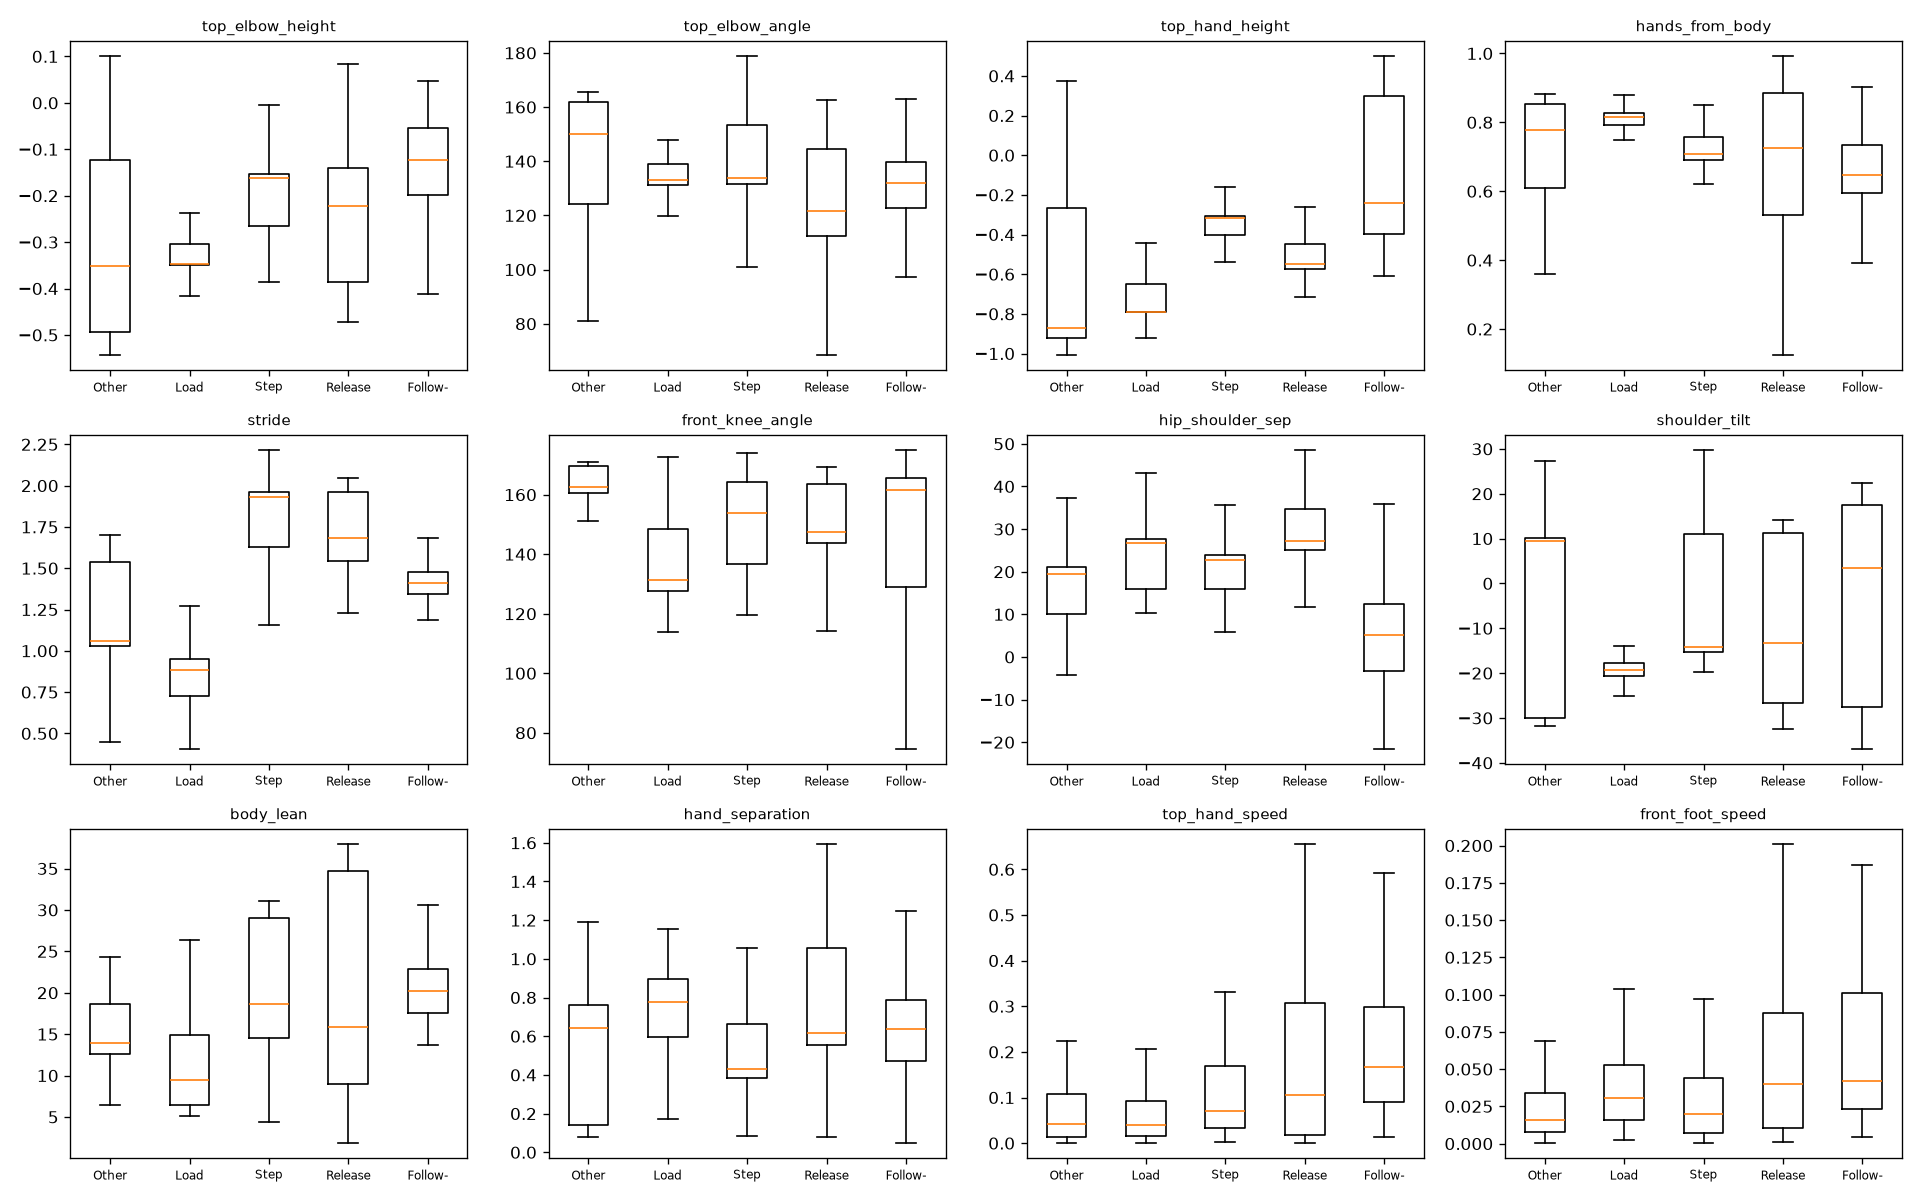
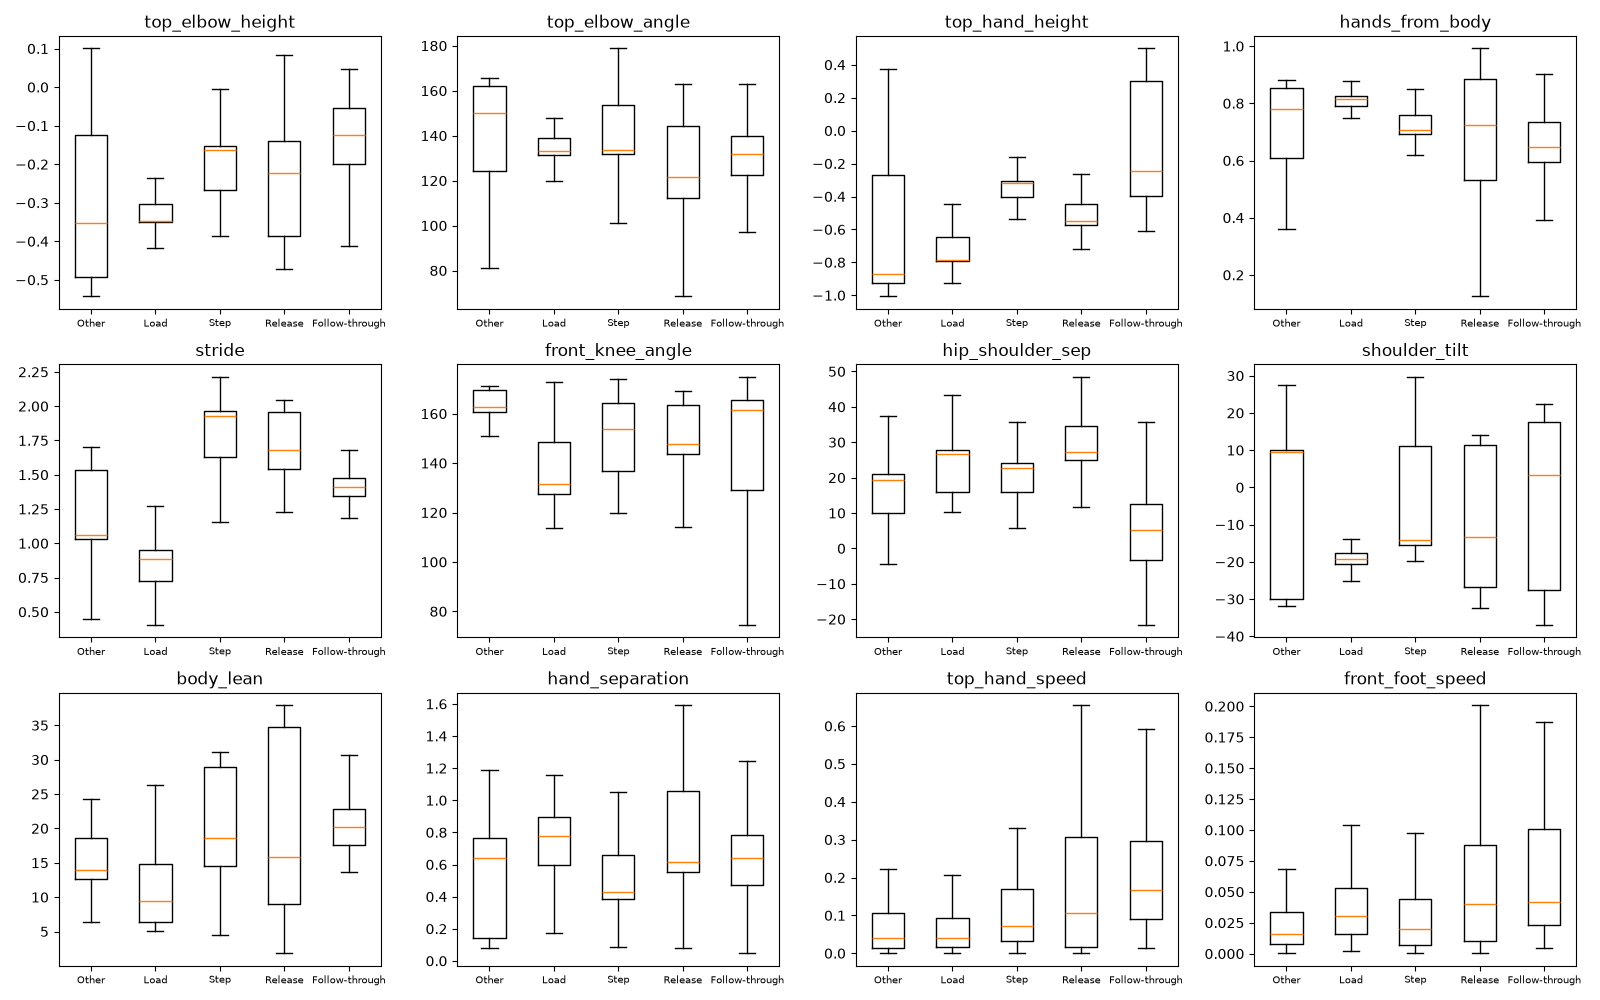
added and trained two traditional models

diff --git a/code/eda.py b/code/eda.py
@@ -1,7 +1,5 @@
 import csv
 
-import matplotlib
-matplotlib.use("Agg")  # save images, don't open windows
 import matplotlib.pyplot as plt
 import numpy as np
 
@@ -10,70 +8,68 @@ from label import LABELS_DIR, STAGES
 from preprocess import MANIFEST, PROCESSED_DIR, ROOT
 
 OUT_DIR = ROOT / "resources" / "eda"
-COLORS = {"Other": "lightgray", "Load": "tab:blue", "Step": "tab:orange",
-          "Release": "tab:red", "Follow-through": "tab:green"}
-# a few features worth watching over time, one per row of the timeline plot
+COLORS = {"Other": "gray", "Load": "blue", "Step": "orange", "Release": "red", "Follow-through": "green"}
 TIMELINE_FEATURES = ["top_hand_height", "stride", "top_hand_speed", "front_foot_speed"]
 
 
 def load_shot(shot_id):
     features = np.load(PROCESSED_DIR / f"{shot_id}_features.npz")["features"]
-    stages = [row["stage"] for row in csv.DictReader(open(LABELS_DIR / f"{shot_id}.csv"))]
+    stages = []
+    for row in csv.DictReader(open(LABELS_DIR / f"{shot_id}.csv")):
+        stages.append(row["stage"])
     return features, np.array(stages)
 
 
-def print_stage_counts(shots):
-    print(f"{'shot':<16}" + "".join(f"{s:>16}" for s in STAGES) + f"{'total':>8}")
-    totals = {s: 0 for s in STAGES}
-    for shot_id, (_, stages) in shots.items():
-        counts = {s: int((stages == s).sum()) for s in STAGES}
-        for s in STAGES:
-            totals[s] += counts[s]
-        print(f"{shot_id:<16}" + "".join(f"{counts[s]:>16}" for s in STAGES) + f"{len(stages):>8}")
-    all_frames = sum(totals.values())
-    print(f"{'all':<16}" + "".join(f"{totals[s]:>11} ({100 * totals[s] / all_frames:2.0f}%)" for s in STAGES)
-          + f"{all_frames:>8}")
+def print_stage_counts(all_stages):
+    print("frames per stage:")
+    for stage in STAGES:
+        count = np.sum(all_stages == stage)
+        print(f"  {stage}: {count} ({100 * count / len(all_stages):.0f}%)")
 
 
 def plot_timeline(shot_id, features, stages):
-    # each feature over the shot, background shaded by the labeled stage
+    frames = np.arange(len(stages))
     fig, axes = plt.subplots(len(TIMELINE_FEATURES), 1, figsize=(10, 8), sharex=True)
     for ax, name in zip(axes, TIMELINE_FEATURES):
-        ax.plot(features[:, FEATURE_NAMES.index(name)], color="black", linewidth=1)
-        for i, stage in enumerate(stages):
-            ax.axvspan(i - 0.5, i + 0.5, color=COLORS[stage], alpha=0.3, linewidth=0)
-        ax.set_ylabel(name, fontsize=8)
+        values = features[:, FEATURE_NAMES.index(name)]
+        ax.plot(frames, values, color="black", linewidth=0.5)
+        for stage in STAGES:
+            ax.scatter(frames[stages == stage], values[stages == stage], color=COLORS[stage], s=5, label=stage)
+        ax.set_ylabel(name)
+    axes[0].legend()
+    axes[0].set_title(shot_id)
     axes[-1].set_xlabel("frame")
-    handles = [plt.Rectangle((0, 0), 1, 1, color=COLORS[s], alpha=0.3) for s in STAGES]
-    fig.legend(handles, STAGES, loc="upper center", ncol=len(STAGES))
-    fig.suptitle(shot_id, y=0.94)
-    fig.savefig(OUT_DIR / f"timeline_{shot_id}.png", dpi=120)
-    plt.close(fig)
+    plt.savefig(OUT_DIR / f"timeline_{shot_id}.png")
+    plt.close()
 
 
-def plot_feature_by_stage(shots):
-    # one box per stage for every feature, all shots pooled
-    features = np.vstack([f for f, _ in shots.values()])
-    stages = np.concatenate([s for _, s in shots.values()])
+def plot_feature_by_stage(features, stages):
     fig, axes = plt.subplots(3, 4, figsize=(16, 10))
     for ax, name in zip(axes.flat, FEATURE_NAMES):
-        col = features[:, FEATURE_NAMES.index(name)]
-        ax.boxplot([col[stages == s] for s in STAGES], showfliers=False)
-        ax.set_xticks(range(1, len(STAGES) + 1), [s[:7] for s in STAGES], fontsize=7)
-        ax.set_title(name, fontsize=9)
-    fig.tight_layout()
-    fig.savefig(OUT_DIR / "features_by_stage.png", dpi=120)
-    plt.close(fig)
+        values = features[:, FEATURE_NAMES.index(name)]
+        ax.boxplot([values[stages == stage] for stage in STAGES], showfliers=False)
+        ax.set_xticklabels(STAGES, fontsize=7)
+        ax.set_title(name)
+    plt.tight_layout()
+    plt.savefig(OUT_DIR / "features_by_stage.png")
+    plt.close()
 
 
 def main():
     OUT_DIR.mkdir(parents=True, exist_ok=True)
-    shots = {s["shot_id"]: load_shot(s["shot_id"]) for s in csv.DictReader(open(MANIFEST))}
-    print_stage_counts(shots)
-    for shot_id, (features, stages) in shots.items():
-        plot_timeline(shot_id, features, stages)
-    plot_feature_by_stage(shots)
-    print(f"\nplots -> {OUT_DIR.relative_to(ROOT)}")
+    all_features = []
+    all_stages = []
+    for shot in csv.DictReader(open(MANIFEST)):
+        features, stages = load_shot(shot["shot_id"])
+        plot_timeline(shot["shot_id"], features, stages)
+        all_features.append(features)
+        all_stages.append(stages)
+
+    all_features = np.vstack(all_features)
+    all_stages = np.concatenate(all_stages)
+    print_stage_counts(all_stages)
+    plot_feature_by_stage(all_features, all_stages)
+    print("plots saved to resources/eda")
 
 
 if __name__ == "__main__":

diff --git a/code/label.py b/code/label.py
@@ -7,17 +7,13 @@ from preprocess import PROCESSED_DIR, ROOT
 
 LABELS_DIR = ROOT / "data" / "labels"
 STAGES = ["Other", "Load", "Step", "Release", "Follow-through"]
-# keys: a/d = back/forward 1 frame, q/e = back/forward 10 frames
-#       1-4 = this frame starts Load/Step/Release/Follow-through, 0 = shot is over (back to Other)
-#       s = save and quit, esc = quit without saving
-MOVES = {ord("a"): -1, ord("d"): 1, ord("q"): -10, ord("e"): 10}
-
 
 def stage_per_frame(marks, num_frames):
-    # marks = {frame: stage}; each mark holds until the next one
-    stages, current = [], "Other"
+    stages = []
+    current = "Other"
     for i in range(num_frames):
-        current = marks.get(i, current)
+        if i in marks:
+            current = marks[i]
         stages.append(current)
     return stages
 
@@ -25,27 +21,35 @@ def stage_per_frame(marks, num_frames):
 def label_shot(shot_id):
     cap = cv2.VideoCapture(str(PROCESSED_DIR / f"{shot_id}_check.mp4"))
     num_frames = int(cap.get(cv2.CAP_PROP_FRAME_COUNT))
-    marks, i = {}, 0
+    marks = {}
+    i = 0
 
     while True:
         cap.set(cv2.CAP_PROP_POS_FRAMES, i)
         ok, frame = cap.read()
         if not ok:
             break
-        stage = stage_per_frame(marks, i + 1)[-1]
+        stage = stage_per_frame(marks, i + 1)[i]
         cv2.putText(frame, stage, (20, 120), cv2.FONT_HERSHEY_SIMPLEX, 1.2, (255, 0, 255), 3)
-        cv2.imshow(shot_id, cv2.resize(frame, None, fx=720 / frame.shape[0], fy=720 / frame.shape[0]))
+        cv2.imshow(shot_id, cv2.resize(frame, (1280, 720)))
 
-        key = cv2.waitKey(0) & 0xFF
-        if key in MOVES:
-            i = min(max(i + MOVES[key], 0), num_frames - 1)
-        elif ord("0") <= key <= ord("4"):
-            marks[i] = STAGES[key - ord("0")]
-        elif key == ord("s"):
+        key = chr(cv2.waitKey(0) & 0xFF)
+        if key == "a":
+            i -= 1
+        elif key == "d":
+            i += 1
+        elif key == "q":
+            i -= 10
+        elif key == "e":
+            i += 10
+        elif key in "01234":
+            marks[i] = STAGES[int(key)]
+        elif key == "s":
             save(shot_id, stage_per_frame(marks, num_frames))
             break
-        elif key == 27:  # esc
+        elif key == "\x1b":  # esc
             break
+        i = max(0, min(i, num_frames - 1))  # stay inside the video
 
     cap.release()
     cv2.destroyAllWindows()
@@ -53,13 +57,12 @@ def label_shot(shot_id):
 
 def save(shot_id, stages):
     LABELS_DIR.mkdir(exist_ok=True)
-    out = LABELS_DIR / f"{shot_id}.csv"
-    with open(out, "w", newline="") as f:
+    with open(LABELS_DIR / f"{shot_id}.csv", "w", newline="") as f:
         writer = csv.writer(f)
         writer.writerow(["frame", "stage"])
-        writer.writerows(enumerate(stages))
-    counts = {s: stages.count(s) for s in STAGES}
-    print(f"{shot_id} -> {out.relative_to(ROOT)}  {counts}")
+        for i, stage in enumerate(stages):
+            writer.writerow([i, stage])
+    print("saved labels for", shot_id)
 
 
 if __name__ == "__main__":

diff --git a/code/train.py b/code/train.py
@@ -1,0 +1,72 @@
+import csv
+
+import matplotlib.pyplot as plt
+import numpy as np
+from sklearn.ensemble import RandomForestClassifier
+from sklearn.linear_model import LogisticRegression
+from sklearn.metrics import ConfusionMatrixDisplay, accuracy_score, f1_score
+from sklearn.pipeline import make_pipeline
+from sklearn.preprocessing import StandardScaler
+
+from eda import load_shot
+from label import STAGES
+from preprocess import MANIFEST, ROOT
+
+OUT_DIR = ROOT / "resources" / "results"
+
+MODELS = {
+    "logistic_regression": make_pipeline(StandardScaler(), LogisticRegression(class_weight="balanced", max_iter=1000)),
+    "random_forest": RandomForestClassifier(n_estimators=200, max_depth=8, class_weight="balanced", random_state=0),
+}
+
+
+def load_dataset():
+    # every frame of every shot stacked into one table
+    X = []
+    y = []
+    groups = []
+    for shot in csv.DictReader(open(MANIFEST)):
+        features, stages = load_shot(shot["shot_id"])
+        X.append(features)
+        y.append(stages)
+        groups += [shot["shot_id"]] * len(stages)
+    return np.vstack(X), np.concatenate(y), np.array(groups)
+
+
+def evaluate(model, X, y, groups):
+    # train on 3 shots, test on the one left out, then repeat for each shot
+    test_pred = np.empty_like(y)
+    for shot in np.unique(groups):
+        test = groups == shot
+        train = ~test
+        model.fit(X[train], y[train])
+        test_pred[test] = model.predict(X[test])
+
+        train_f1 = f1_score(y[train], model.predict(X[train]), average="macro")
+        test_f1 = f1_score(y[test], test_pred[test], average="macro")
+        print(f"  test on {shot}: train F1 = {train_f1:.2f}, test F1 = {test_f1:.2f}")
+    return test_pred
+
+
+def save_confusion_matrix(name, y, test_pred):
+    ConfusionMatrixDisplay.from_predictions(y, test_pred, labels=STAGES, xticks_rotation=30, colorbar=False)
+    plt.title(name)
+    plt.tight_layout()
+    plt.savefig(OUT_DIR / f"confusion_{name}.png")
+    plt.close()
+
+
+def main():
+    OUT_DIR.mkdir(parents=True, exist_ok=True)
+    X, y, groups = load_dataset()
+    print(len(X), "frames,", X.shape[1], "features")
+
+    for name, model in MODELS.items():
+        print("\n" + name)
+        test_pred = evaluate(model, X, y, groups)
+        print(f"  overall: test F1 = {f1_score(y, test_pred, average='macro'):.2f}, "f"accuracy = {accuracy_score(y, test_pred):.2f}")
+        save_confusion_matrix(name, y, test_pred)
+
+
+if __name__ == "__main__":
+    main()

diff --git a/README.md b/README.md
@@ -45,4 +45,5 @@ The shots used from each video are listed in `data/manifest.csv`.
 .venv/bin/python code/overlay.py      # skeleton videos to check tracking by eye
 .venv/bin/python code/label.py <shot_id>   # mark where each shot stage starts
 .venv/bin/python code/eda.py          # stage counts + feature plots -> resources/eda
+.venv/bin/python code/train.py        # train + test stage models -> resources/results
 ```
